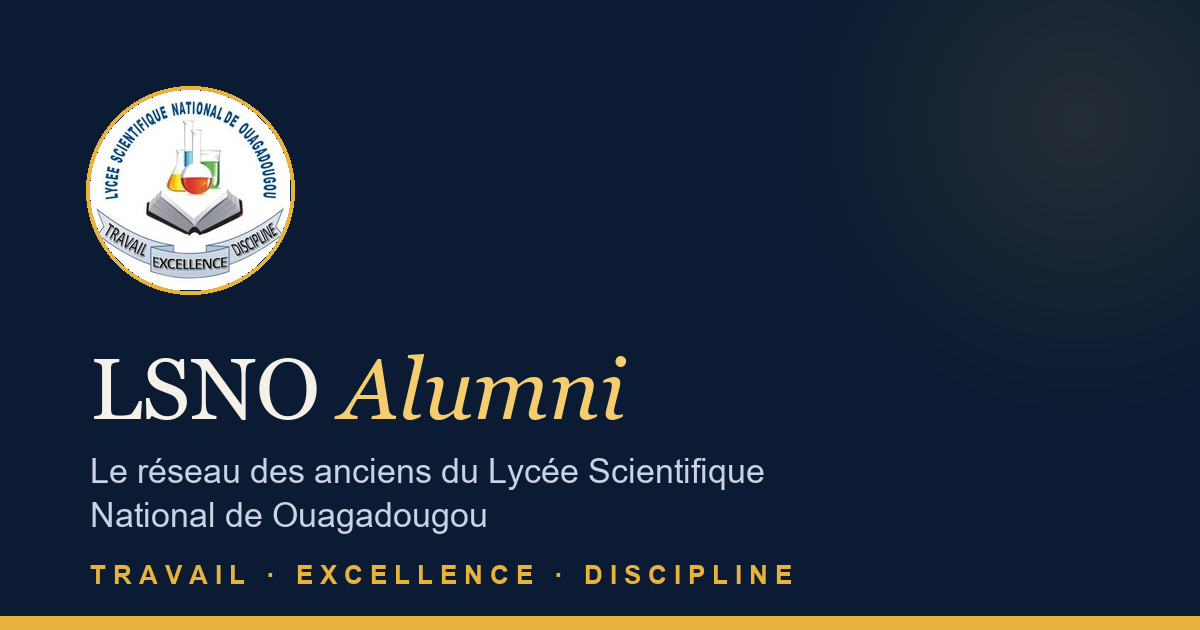
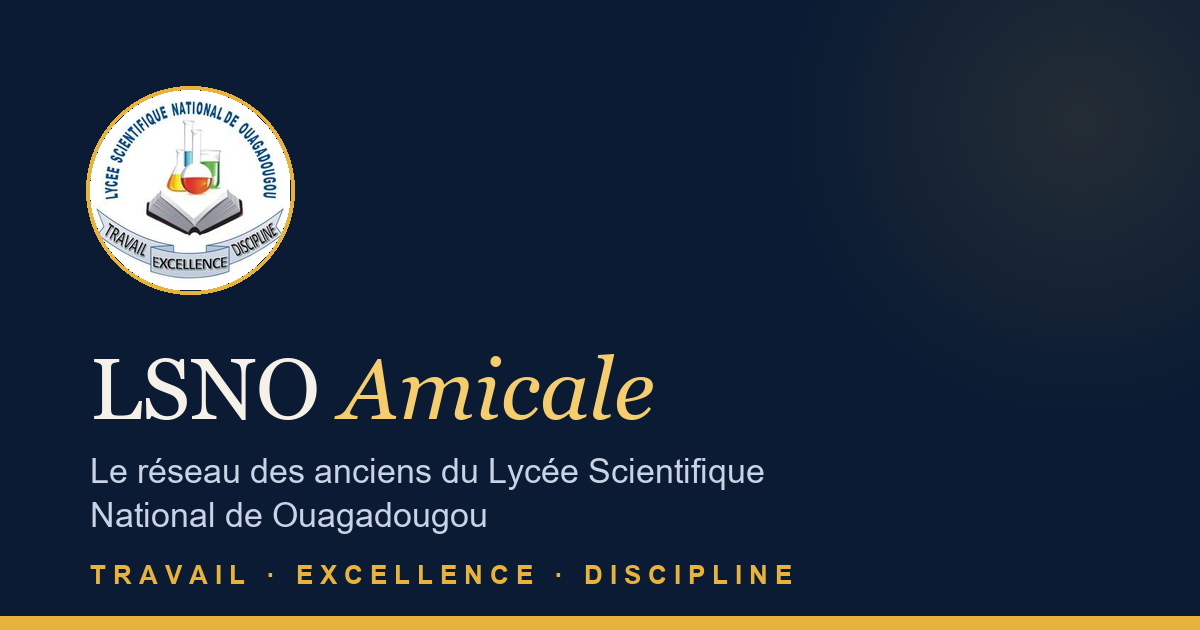
Renommage LSNO Alumni -> LSNO Amicale (interface, métadonnées, expéditeur emails, image d'aperçu) — noms techniques inchangés

Changed region(s): [[0.3392, 0.5429, 0.555, 0.6635]]

diff --git a/src/app/layout.js b/src/app/layout.js
@@ -17,15 +17,15 @@ const ui = Space_Grotesk({
 
 export const metadata = {
   metadataBase: new URL("https://lsno-alumni.vercel.app"),
-  title: "LSNO Alumni — Le réseau des anciens du Lycée Scientifique National de Ouagadougou",
+  title: "LSNO Amicale — Le réseau des anciens du Lycée Scientifique National de Ouagadougou",
   description:
     "Retrouve les anciens du Lycée Scientifique National de Ouagadougou par domaine, promotion ou pays. Parcours, conseils aux cadets et mise en réseau. Travail · Excellence · Discipline.",
   openGraph: {
-    title: "LSNO Alumni — Le réseau des anciens du LSNO",
+    title: "LSNO Amicale — Le réseau des anciens du LSNO",
     description:
       "Retrouve les anciens du Lycée Scientifique National de Ouagadougou par domaine, promotion ou pays.",
     url: "/",
-    siteName: "LSNO Alumni",
+    siteName: "LSNO Amicale",
     locale: "fr_FR",
     type: "website",
   },

diff --git a/src/app/a-propos/page.js b/src/app/a-propos/page.js
@@ -1,7 +1,7 @@
 import Link from "next/link";
 import TabBar from "@/components/TabBar";
 
-export const metadata = { title: "À propos — LSNO Alumni" };
+export const metadata = { title: "À propos — LSNO Amicale" };
 
 export default function APropos() {
   return (
@@ -12,7 +12,7 @@ export default function APropos() {
       </header>
       <div className="f-corps" style={{ fontSize: 14.5, lineHeight: 1.7, color: "var(--craie-2)" }}>
         <p>
-          <b>LSNO Alumni</b>{" "}est le réseau des anciens du Lycée Scientifique National
+          <b>LSNO Amicale</b>{" "}est le réseau des anciens du Lycée Scientifique National
           de Ouagadougou. Né d&apos;une discussion entre promotions, il centralise les
           parcours des anciens pour que chaque cadet trouve le bon interlocuteur —
           sans que les conseils se perdent dans le flux des messages.

diff --git a/src/app/annuaire/page.js b/src/app/annuaire/page.js
@@ -5,7 +5,7 @@ import TabBar from "@/components/TabBar";
 import Annuaire from "./Annuaire";
 import { listeMembres, utilisateurCourant } from "@/lib/api";
 
-export const metadata = { title: "Annuaire — LSNO Alumni" };
+export const metadata = { title: "Annuaire — LSNO Amicale" };
 export const dynamic = "force-dynamic";
 
 export default async function PageAnnuaire() {

diff --git a/src/app/page.js b/src/app/page.js
@@ -20,7 +20,7 @@ export default async function Accueil() {
         <Poussiere />
         <div className="a-nav">
           <div className="a-marque">
-            <img className="sceau" src="/img/logo.jpg" alt="Blason du LSNO" /> LSNO Alumni
+            <img className="sceau" src="/img/logo.jpg" alt="Blason du LSNO" /> LSNO Amicale
           </div>
           <MenuPublic />
         </div>

diff --git a/src/lib/donnees.js b/src/lib/donnees.js
@@ -1,5 +1,5 @@
 // ============================================================
-// Couche de données LSNO Alumni.
+// Couche de données LSNO Amicale.
 // Aujourd'hui : données de démonstration en mémoire.
 // Demain : chaque fonction bascule sur Supabase (même signature),
 // le reste de l'application ne change pas.